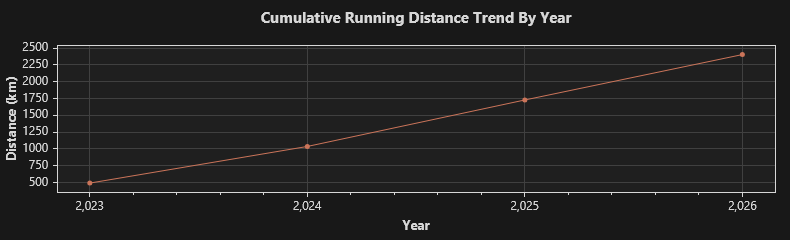
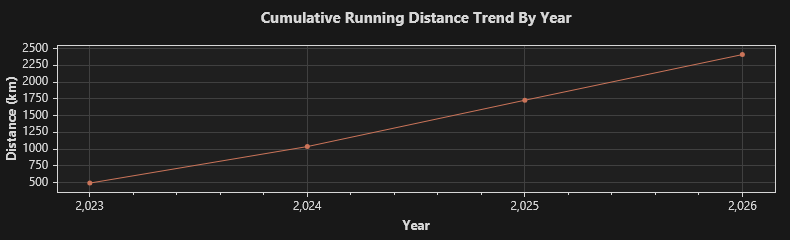
2026/11/23 跑步 6.17 公里

diff --git a/trend.md b/trend.md
@@ -1,4 +1,4 @@
-### Total: 407 days, 2404.8400000000001455191522837 km.
+### Total: 408 days, 2411.0100000000002182787284255 km.
 
 
 ![Monthly](https://github.com/prime167/MyRunningLog/blob/main/data/CumulativeTrendByMonth.png)
